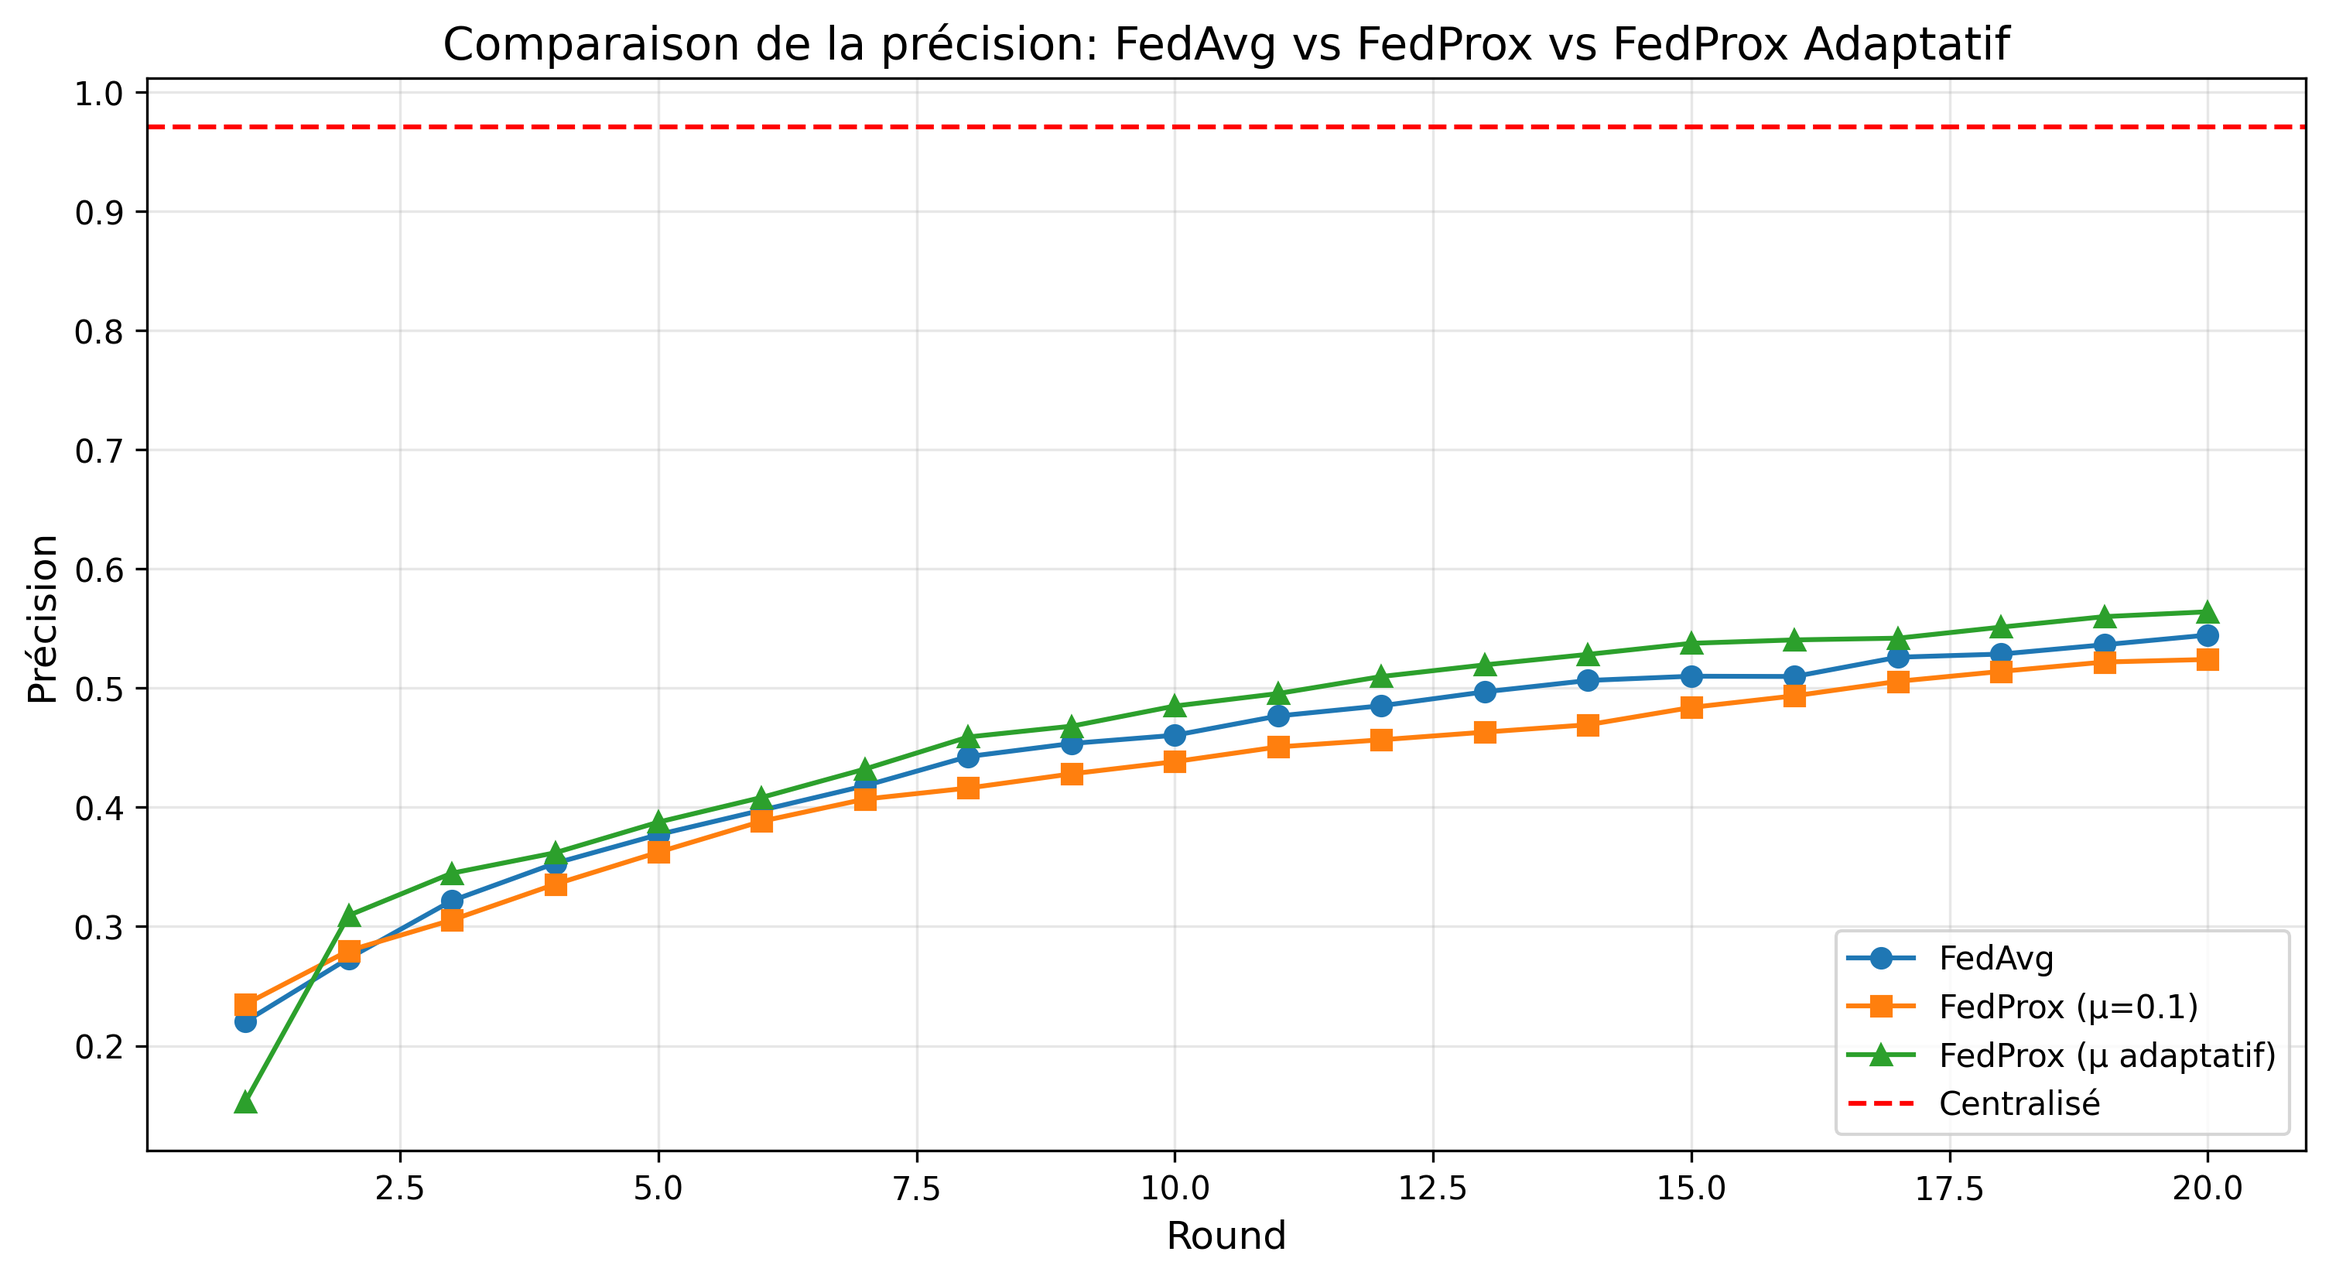
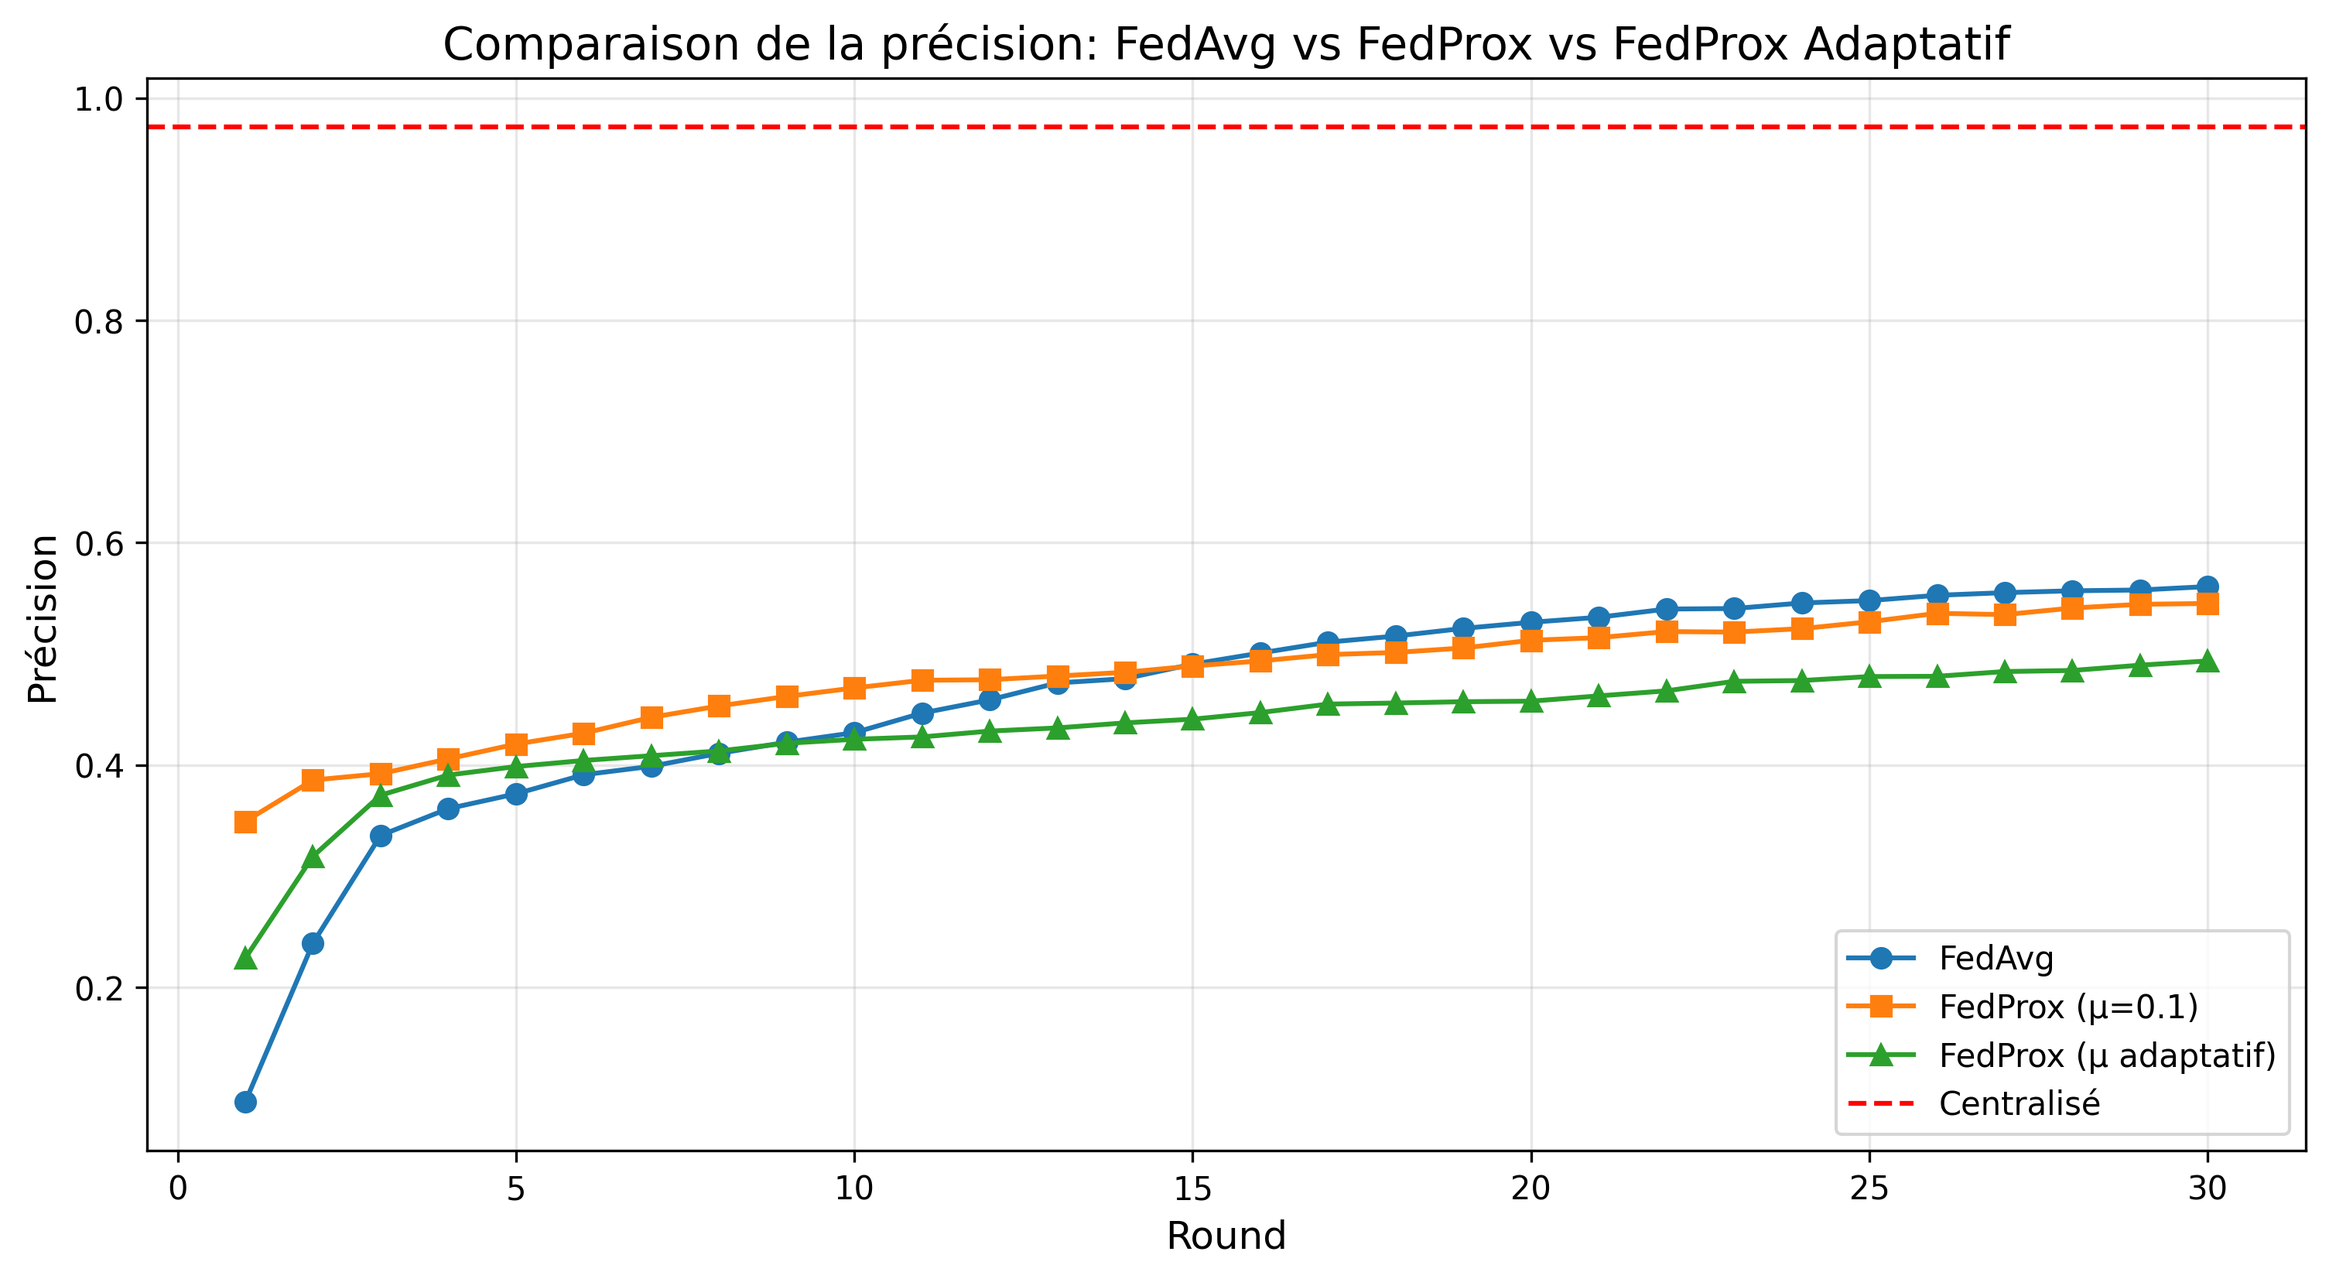
Augmenter le nombre de rounds d'expérimentation à 30 dans les scripts principaux et ajuster les époques d'entraînement pour une meilleure évaluation des performances.

diff --git a/main_experimentation.py b/main_experimentation.py
@@ -19,7 +19,7 @@ from edge_node import EdgeNode
 import fl_dataquest
 
 def run_federated_learning(mnist_base_path, test_dataset, model_class, mu=0.0, 
-                          num_edges=10, num_rounds=5, edge_epochs=1, 
+                          num_edges=10, num_rounds=10, edge_epochs=10, 
                           input_shape=(28, 28), num_classes=10, 
                           folders_per_edge=2, verbose=1):
     """
@@ -93,7 +93,7 @@ def run_federated_learning(mnist_base_path, test_dataset, model_class, mu=0.0,
     return evaluation_history
 
 
-def compare_fedavg_fedprox(mnist_base_path, num_edges=10, num_rounds=10, edge_epochs=1, 
+def compare_fedavg_fedprox(mnist_base_path, num_edges=10, num_rounds=10, edge_epochs=10, 
                           folders_per_edge=2, mu_values=[0.0, 0.01, 0.1], verbose=1):
     """
     Compare les performances de FedAvg et FedProx avec différentes valeurs de mu.
@@ -227,8 +227,7 @@ def plot_comparison(histories, central_accuracy, num_rounds):
     print("Graphiques sauvegardés dans le dossier 'figures'")
     
 
-
-def experiment_non_iid_effect(mnist_base_path, num_edges=10, num_rounds=10, edge_epochs=1, verbose=1):
+def experiment_non_iid_effect(mnist_base_path, num_edges=10, num_rounds=10, edge_epochs=10, verbose=1):
     """
     Expérimente l'effet de différentes distributions non-IID sur FedAvg et FedProx.
     
@@ -358,6 +357,244 @@ def plot_non_iid_comparison(results, num_rounds):
     print("Graphiques de l'expérience sur la non-IID sauvegardés dans le dossier 'figures'")
 
 
+def run_experiments(mnist_base_path, configurations, num_rounds=30, verbose=1):
+    """
+    Exécute des expériences d'apprentissage fédéré selon les configurations spécifiées.
+    
+    Args:
+        mnist_base_path: Chemin de base vers les données MNIST
+        configurations: Liste des configurations à tester
+        num_rounds: Nombre de rounds de fédération
+        verbose: Niveau de verbosité
+    
+    Returns:
+        Dictionnaire contenant les résultats pour chaque configuration
+    """
+    # Dictionnaire pour stocker les résultats
+    results = {}
+    
+    # Charger les données de test centralisées
+    X_train, X_test, y_train, y_test, input_shape = fl_dataquest.get_data(mnist_base_path, verbose=verbose)
+    # Créer le jeu de données de test
+    _, test_dataset = fl_dataquest.get_dataset(X_train, X_test, y_train, y_test, batch_size=32, verbose=verbose)
+    
+    # Entraîner un modèle centralisé pour comparaison
+    print("\n--- Entraînement du modèle centralisé pour comparaison ---")
+    central_model = FedProxModel(input_shape, nbclasses=10)
+    train_dataset, _ = fl_dataquest.get_dataset(X_train, X_test, y_train, y_test, batch_size=32, verbose=verbose)
+    central_model.fit_it(trains=train_dataset, epochs=num_rounds * 3, tests=test_dataset, verbose=verbose)
+    central_loss, central_accuracy = central_model.evaluate(test_dataset, verbose=verbose)
+    print(f"\nModèle centralisé - Perte: {central_loss:.4f}, Précision: {central_accuracy:.4f}")
+    
+    # Exécuter chaque configuration
+    for config in configurations:
+        name = config['name']
+        num_clients = config['num_clients']
+        edge_epochs = config['epochs']
+        
+        # Gérer la distribution IID vs non-IID
+        # Pour IID, on donne toutes les classes (10)
+        # Pour non-IID, on limite à 2 classes par client
+        folders_per_edge = 10 if config['distribution'] == 'iid' else 2
+        
+        # Gérer l'algorithme
+        if config['algo'] == 'fedavg':
+            mu = 0.0
+            algo_name = "FedAvg"
+        elif config['algo'] == 'fedprox':
+            mu = 0.1
+            algo_name = "FedProx"
+        elif config['algo'] == 'fedsgd':
+            mu = 0.0
+            algo_name = "FedSGD"
+            # Pour FedSGD, on pourrait ajuster le taux d'apprentissage
+            # Cela dépendrait de l'implémentation de ton FedProxModel
+            # Par exemple: learning_rate = config.get('lr', 0.01)
+        else:
+            # Algorithme par défaut
+            mu = 0.0
+            algo_name = "Default"
+        
+        print(f"\n--- Exécution de {name}: {algo_name}, {num_clients} clients, {edge_epochs} époques ---")
+        
+        # Mesurer le temps d'exécution
+        start_time = time.time()
+        
+        # Exécuter l'apprentissage fédéré
+        history = run_federated_learning(
+            mnist_base_path,
+            test_dataset,
+            FedProxModel,
+            mu=mu,
+            num_edges=num_clients,
+            num_rounds=num_rounds,
+            edge_epochs=edge_epochs,
+            input_shape=input_shape,
+            folders_per_edge=folders_per_edge,
+            verbose=verbose
+        )
+        
+        elapsed_time = time.time() - start_time
+        
+        # Stocker les résultats
+        final_loss, final_accuracy = history[-1]
+        results[name] = {
+            "history": history,
+            "time": elapsed_time,
+            "final_loss": final_loss,
+            "final_accuracy": final_accuracy,
+            "config": config
+        }
+        
+        print(f"{name} - Perte finale: {final_loss:.4f}, Précision finale: {final_accuracy:.4f}")
+        print(f"Temps d'exécution: {elapsed_time:.2f} secondes")
+    
+    # Tracer les résultats
+    plot_experiment_results(results, central_accuracy, num_rounds)
+    
+    return results, (central_loss, central_accuracy)
+
+
+def plot_experiment_results(results, central_accuracy, num_rounds):
+    """
+    Génère et sauvegarde des graphiques comparant les performances des différentes configurations.
+    
+    Args:
+        results: Dictionnaire contenant les résultats de chaque configuration
+        central_accuracy: Précision du modèle centralisé
+        num_rounds: Nombre de rounds de fédération
+    """
+    # Créer le répertoire pour les figures si nécessaire
+    os.makedirs('figures', exist_ok=True)
+    
+    # Préparer les données pour les graphiques
+    rounds = list(range(1, num_rounds + 1))
+    
+    # --- Comparaison du nombre de clients ---
+    # Filtrer les résultats pour la comparaison du nombre de clients
+    client_configs = [k for k in results.keys() if k.startswith('Clients_')]
+    
+    if client_configs:
+        plt.figure(figsize=(12, 5))
+        for config_name in client_configs:
+            accuracies = [x[1] for x in results[config_name]["history"]]
+            plt.plot(rounds, accuracies, marker='o', label=config_name)
+        
+        plt.axhline(y=central_accuracy, color='r', linestyle='--', label='Centralisé')
+        plt.xlabel('Round')
+        plt.ylabel('Précision')
+        plt.title('Impact du nombre de clients sur la précision')
+        plt.legend()
+        plt.grid(True, alpha=0.3)
+        plt.savefig('figures/client_number_comparison.png', dpi=300, bbox_inches='tight')
+    
+    # --- Comparaison des algorithmes ---
+    # Filtrer les résultats pour la comparaison des algorithmes
+    algo_configs = ['FedAvg_10', 'FedProx_10']
+    if 'FedSGD_LR0.1' in results:
+        algo_configs.append('FedSGD_LR0.1')
+    
+    valid_algo_configs = [k for k in algo_configs if k in results]
+    
+    if valid_algo_configs:
+        plt.figure(figsize=(12, 5))
+        for config_name in valid_algo_configs:
+            accuracies = [x[1] for x in results[config_name]["history"]]
+            plt.plot(rounds, accuracies, marker='o', label=config_name)
+        
+        plt.axhline(y=central_accuracy, color='r', linestyle='--', label='Centralisé')
+        plt.xlabel('Round')
+        plt.ylabel('Précision')
+        plt.title('Comparaison des algorithmes d\'agrégation')
+        plt.legend()
+        plt.grid(True, alpha=0.3)
+        plt.savefig('figures/algorithm_comparison.png', dpi=300, bbox_inches='tight')
+    
+    # --- Comparaison IID vs Non-IID ---
+    if 'NonIID_10clients' in results and 'FedAvg_10' in results:
+        plt.figure(figsize=(12, 5))
+        
+        iid_accuracies = [x[1] for x in results['FedAvg_10']["history"]]
+        noniid_accuracies = [x[1] for x in results['NonIID_10clients']["history"]]
+        
+        plt.plot(rounds, iid_accuracies, marker='o', label='IID (10 clients)')
+        plt.plot(rounds, noniid_accuracies, marker='s', label='Non-IID (10 clients)')
+        
+        plt.axhline(y=central_accuracy, color='r', linestyle='--', label='Centralisé')
+        plt.xlabel('Round')
+        plt.ylabel('Précision')
+        plt.title('Impact de la distribution des données (IID vs Non-IID)')
+        plt.legend()
+        plt.grid(True, alpha=0.3)
+        plt.savefig('figures/iid_vs_noniid.png', dpi=300, bbox_inches='tight')
+    
+    # --- Comparaison du nombre d'époques ---
+    epochs_configs = ['Epochs_1', 'Epochs_3', 'Epochs_5'] 
+    valid_epochs_configs = [k for k in epochs_configs if k in results]
+    
+    if len(valid_epochs_configs) > 1:
+        plt.figure(figsize=(12, 5))
+        for config_name in valid_epochs_configs:
+            accuracies = [x[1] for x in results[config_name]["history"]]
+            plt.plot(rounds, accuracies, marker='o', label=config_name)
+        
+        plt.axhline(y=central_accuracy, color='r', linestyle='--', label='Centralisé')
+        plt.xlabel('Round')
+        plt.ylabel('Précision')
+        plt.title('Impact du nombre d\'époques locales')
+        plt.legend()
+        plt.grid(True, alpha=0.3)
+        plt.savefig('figures/local_epochs_comparison.png', dpi=300, bbox_inches='tight')
+    
+    # --- Temps d'exécution ---
+    plt.figure(figsize=(14, 6))
+    names = list(results.keys())
+    times = [results[name]["time"] for name in names]
+    
+    # Trier par temps d'exécution
+    sorted_indices = np.argsort(times)
+    sorted_names = [names[i] for i in sorted_indices]
+    sorted_times = [times[i] for i in sorted_indices]
+    
+    plt.bar(sorted_names, sorted_times)
+    plt.xlabel('Configuration')
+    plt.ylabel('Temps d\'exécution (s)')
+    plt.title('Temps d\'exécution par configuration')
+    plt.xticks(rotation=45, ha='right')
+    plt.grid(True, alpha=0.3, axis='y')
+    plt.tight_layout()
+    plt.savefig('figures/execution_time_all.png', dpi=300, bbox_inches='tight')
+    
+    # --- Précisions finales ---
+    plt.figure(figsize=(14, 6))
+    final_accuracies = [results[name]["final_accuracy"] for name in names]
+    
+    # Trier par précision finale
+    sorted_indices = np.argsort(final_accuracies)[::-1]  # Ordre décroissant
+    sorted_names = [names[i] for i in sorted_indices]
+    sorted_accuracies = [final_accuracies[i] for i in sorted_indices]
+    
+    bars = plt.bar(sorted_names, sorted_accuracies)
+    plt.axhline(y=central_accuracy, color='r', linestyle='--', label='Centralisé')
+    
+    # Ajouter les valeurs au-dessus des barres
+    for bar in bars:
+        height = bar.get_height()
+        plt.text(bar.get_x() + bar.get_width()/2., height + 0.005,
+                f'{height:.3f}', ha='center', va='bottom', rotation=0)
+    
+    plt.xlabel('Configuration')
+    plt.ylabel('Précision finale')
+    plt.title('Précision finale par configuration')
+    plt.xticks(rotation=45, ha='right')
+    plt.legend()
+    plt.grid(True, alpha=0.3, axis='y')
+    plt.tight_layout()
+    plt.savefig('figures/final_accuracy_all.png', dpi=300, bbox_inches='tight')
+    
+    print("Graphiques sauvegardés dans le dossier 'figures'")
+
+
 if __name__ == "__main__":
     # Définir le chemin vers le dataset MNIST
[1 lines of base64/hex data omitted]
@@ -367,30 +604,76 @@ if __name__ == "__main__":
         print(f"Le chemin {mnist_base_path} n'existe pas.")
         mnist_base_path = input("Veuillez entrer le chemin correct vers le dataset MNIST: ")
     
+    # Définir les configurations des expériences
+    configurations = [
+        # Nombre de clients
+        {'name': 'Clients_5', 'num_clients': 5, 'distribution': 'iid', 'algo': 'fedavg', 'epochs': 3},
+        {'name': 'Clients_10', 'num_clients': 10, 'distribution': 'iid', 'algo': 'fedavg', 'epochs': 3},
+        {'name': 'Clients_20', 'num_clients': 20, 'distribution': 'iid', 'algo': 'fedavg', 'epochs': 3},
+        
+        # Distribution des données
+        {'name': 'NonIID_10clients', 'num_clients': 10, 'distribution': 'non_iid', 'algo': 'fedavg', 'epochs': 3},
+        
+        # Algorithmes d'agrégation
+        {'name': 'FedAvg_10', 'num_clients': 10, 'distribution': 'iid', 'algo': 'fedavg', 'epochs': 3},
+        {'name': 'FedProx_10', 'num_clients': 10, 'distribution': 'iid', 'algo': 'fedprox', 'epochs': 3},
+        
+        # Époques locales
+        {'name': 'Epochs_1', 'num_clients': 10, 'distribution': 'iid', 'algo': 'fedavg', 'epochs': 1},
+        {'name': 'Epochs_5', 'num_clients': 10, 'distribution': 'iid', 'algo': 'fedavg', 'epochs': 5},
+    ]
+    
     # Paramètres de l'expérience
-    num_edges = 10
     num_rounds = 30
-    edge_epochs = 1
     verbose = 1
     
-    # Comparer FedAvg et FedProx
-    print("\n=== Comparaison de FedAvg et FedProx ===")
-    compare_fedavg_fedprox(
-        mnist_base_path, 
-        num_edges=num_edges, 
-        num_rounds=num_rounds, 
-        edge_epochs=edge_epochs, 
-        folders_per_edge=2,  # Distribution non-IID: 2 classes par edge
-        mu_values=[0.0, 0.01, 0.1],  # 0.0 = FedAvg, 0.01 et 0.1 = FedProx
-        verbose=verbose
-    )
+    # Choix du mode d'expérimentation
+    print("\n=== Choix du mode d'expérimentation ===")
+    print("1. Expérimentations avec les configurations personnalisées")
+    print("2. Comparaison traditionnelle FedAvg et FedProx")
+    print("3. Expérimentation de l'effet non-IID")
+    choice = input("\nVeuillez choisir le mode d'expérimentation (1, 2 ou 3): ")
     
-    # Expérimenter l'effet de différentes distributions non-IID
-    print("\n=== Expérimentation de l'effet de la non-IID ===")
-    experiment_non_iid_effect(
-        mnist_base_path, 
-        num_edges=num_edges, 
-        num_rounds=num_rounds, 
-        edge_epochs=edge_epochs, 
-        verbose=verbose
-    )
+    if choice == '1':
+        # Exécuter les expériences avec les configurations personnalisées
+        print("\n=== Exécution des expériences avec configurations personnalisées ===")
+        results, central_results = run_experiments(
+            mnist_base_path, 
+            configurations, 
+            num_rounds=num_rounds, 
+            verbose=verbose
+        )
+        
+        # Afficher un résumé des résultats
+        print("\n=== Résumé des résultats ===")
+        print(f"Modèle centralisé - Précision: {central_results[1]:.4f}")
+        
+        for name, data in results.items():
+            print(f"{name} - Précision: {data['final_accuracy']:.4f}, Temps: {data['time']:.2f}s")
+    
+    elif choice == '2':
+        # Comparer FedAvg et FedProx (méthode originale)
+        print("\n=== Comparaison de FedAvg et FedProx ===")
+        compare_fedavg_fedprox(
+            mnist_base_path, 
+            num_edges=10, 
+            num_rounds=num_rounds, 
+            edge_epochs=3, 
+            folders_per_edge=2,
+            mu_values=[0.0, 0.01, 0.1],
+            verbose=verbose
+        )
+    
+    elif choice == '3':
+        # Expérimenter l'effet de différentes distributions non-IID (méthode originale)
+        print("\n=== Expérimentation de l'effet de la non-IID ===")
+        experiment_non_iid_effect(
+            mnist_base_path, 
+            num_edges=10, 
+            num_rounds=num_rounds, 
+            edge_epochs=3,
+            verbose=verbose
+        )
+    
+    else:
+        print("Choix invalide. Fin du programme.")

diff --git a/run_adaptive_fedprox.py b/run_adaptive_fedprox.py
@@ -398,7 +398,7 @@ if __name__ == "__main__":
     
     # Paramètres de l'expérience
     num_edges = 10
-    num_rounds = 20
+    num_rounds = 30
     edge_epochs = 1
     folders_per_edge = 2  # Distribution non-IID: 2 classes par edge
     verbose = 1
